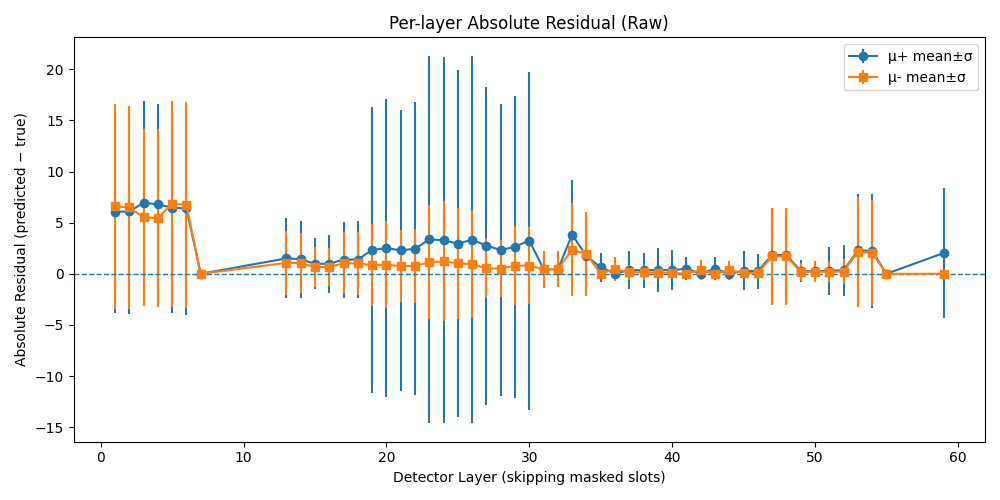
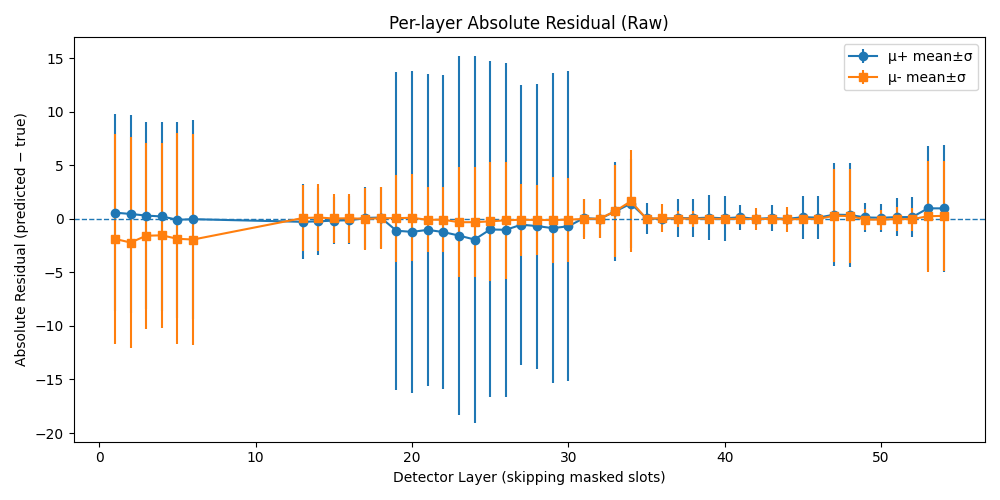
Resolved errors caused by incorrect merge

diff --git a/QTracker_prod/training_scripts/losses.py b/QTracker_prod/training_scripts/losses.py
@@ -1,5 +1,8 @@
 import tensorflow as tf
 
+OVERLAP_LAMBDA = 0.1
+DISTANCE_LAMBDA = 5e-4
+
 
 def custom_loss(y_true, y_pred):
     y_muPlus_true, y_muMinus_true = tf.split(y_true, num_or_size_splits=2, axis=1)
@@ -16,7 +19,7 @@ def custom_loss(y_true, y_pred):
 
     overlap_penalty = tf.reduce_sum(tf.square(y_muPlus_pred - y_muMinus_pred), axis=-1)
 
-    return tf.reduce_mean(loss_mup + loss_mum + 10 * overlap_penalty)
+    return tf.reduce_mean(loss_mup + loss_mum + OVERLAP_LAMBDA * overlap_penalty)
 
 
 def custom_loss_v2(y_true, y_pred):
@@ -43,60 +46,4 @@ def custom_loss_v2(y_true, y_pred):
         tf.square(y_muMinus_pred - y_muMinus_true)
     )
 
-    return tf.reduce_mean(loss_mup + loss_mum + 10 * overlap_penalty + 5e-4 * distance_penalty)
-
-
-def regular_loss(y_true, y_pred):
-    y_muPlus_true, y_muMinus_true = tf.split(y_true, num_or_size_splits=2, axis=1)
-    y_muPlus_pred, y_muMinus_pred = tf.split(y_pred, num_or_size_splits=2, axis=1)
-
-    y_muPlus_true = tf.squeeze(y_muPlus_true, axis=1)
-    y_muMinus_true = tf.squeeze(y_muMinus_true, axis=1)
-
-    y_muPlus_pred = tf.squeeze(y_muPlus_pred, axis=1)
-    y_muMinus_pred = tf.squeeze(y_muMinus_pred, axis=1)
-
-    loss_mup = tf.keras.losses.sparse_categorical_crossentropy(y_muPlus_true, y_muPlus_pred)
-    loss_mum = tf.keras.losses.sparse_categorical_crossentropy(y_muMinus_true, y_muMinus_pred)
-
-    return tf.reduce_mean(loss_mup + loss_mum)
-
-
-def overlap_loss(y_true, y_pred):
-    y_muPlus_true, y_muMinus_true = tf.split(y_true, num_or_size_splits=2, axis=1)
-    y_muPlus_pred, y_muMinus_pred = tf.split(y_pred, num_or_size_splits=2, axis=1)
-
-    y_muPlus_true = tf.squeeze(y_muPlus_true, axis=1)
-    y_muMinus_true = tf.squeeze(y_muMinus_true, axis=1)
-
-    y_muPlus_pred = tf.squeeze(y_muPlus_pred, axis=1)
-    y_muMinus_pred = tf.squeeze(y_muMinus_pred, axis=1)
-
-    overlap_penalty = tf.reduce_sum(tf.square(y_muPlus_pred - y_muMinus_pred), axis=-1)
-
-    return tf.reduce_mean(10 * overlap_penalty)
-    
-
-def distance_loss(y_true, y_pred):
-    y_muPlus_true, y_muMinus_true = tf.split(y_true, num_or_size_splits=2, axis=1)
-    y_muPlus_pred, y_muMinus_pred = tf.split(y_pred, num_or_size_splits=2, axis=1)
-
-    y_muPlus_true = tf.squeeze(y_muPlus_true, axis=1)
-    y_muMinus_true = tf.squeeze(y_muMinus_true, axis=1)
-
-    y_muPlus_pred = tf.squeeze(y_muPlus_pred, axis=1)
-    y_muMinus_pred = tf.squeeze(y_muMinus_pred, axis=1)
-
-    elementIDs = tf.range(tf.shape(y_muPlus_pred)[-1], dtype=tf.float32)
-    y_muPlus_pred = tf.reduce_sum(y_muPlus_pred * elementIDs, axis=-1)
-    y_muMinus_pred = tf.reduce_sum(y_muMinus_pred * elementIDs, axis=-1)
-
-    y_muPlus_true = tf.cast(y_muPlus_true, dtype=tf.float32)
-    y_muMinus_true = tf.cast(y_muMinus_true, dtype=tf.float32)
-
-    distance_penalty = (
-        tf.square(y_muPlus_pred - y_muPlus_true) + 
-        tf.square(y_muMinus_pred - y_muMinus_true)
-    )
-
-    return tf.reduce_mean(5e-4 * distance_penalty)
+    return tf.reduce_mean(loss_mup + loss_mum + OVERLAP_LAMBDA * overlap_penalty + DISTANCE_LAMBDA * distance_penalty)

diff --git a/QTracker_prod/training_scripts/TrackFinder_unet.py b/QTracker_prod/training_scripts/TrackFinder_unet.py
@@ -12,13 +12,7 @@ from tensorflow.keras.applications import ResNet50
 from tensorflow.keras import layers
 
 from data_loader import load_data
-from losses import (
-    custom_loss, 
-    custom_loss_v2, 
-    regular_loss, 
-    overlap_loss, 
-    distance_loss
-)
+from losses import custom_loss
 
 # Ensure the models directory exists
 os.makedirs("models", exist_ok=True)
@@ -155,8 +149,8 @@ def train_model(root_file, output_model, learning_rate=0.00005, patience=5, use_
     optimizer = tf.keras.optimizers.Adam(learning_rate=learning_rate)
     model.compile(
         optimizer=optimizer, 
-        loss=custom_loss_v2, 
-        metrics=['accuracy', regular_loss, overlap_loss, distance_loss]
+        loss=custom_loss, 
+        metrics=['accuracy']
     )
     
     history = model.fit(X_train, y_train, epochs=40, batch_size=32, validation_data=(X_test, y_test), callbacks=[lr_scheduler, early_stopping])
